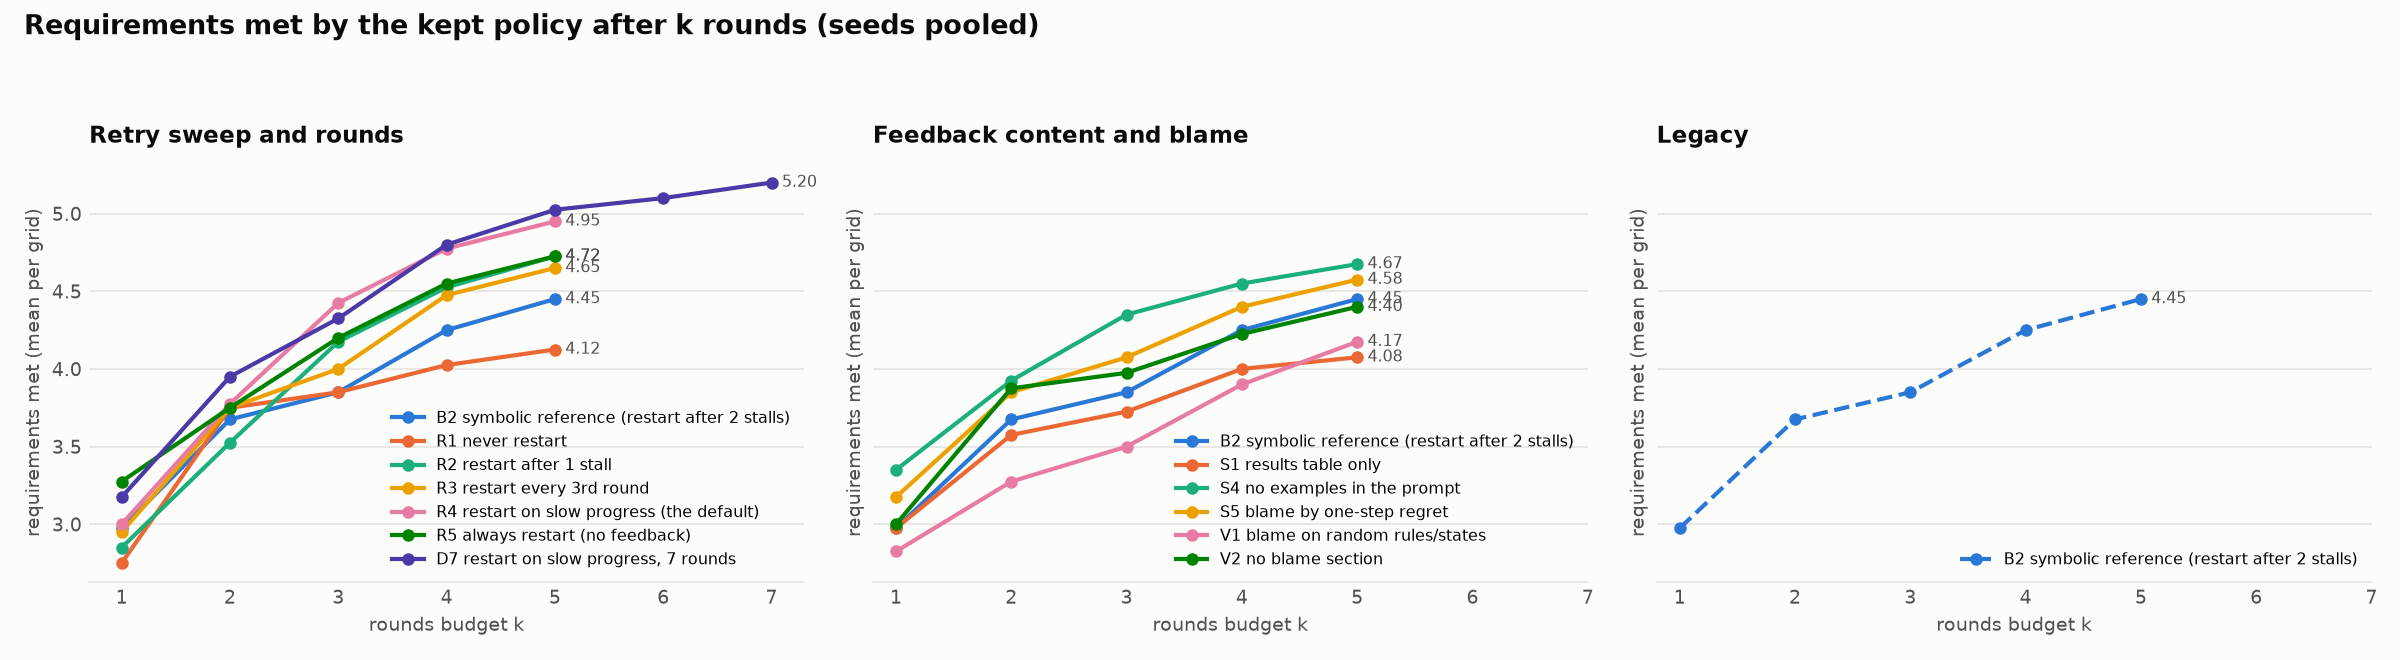
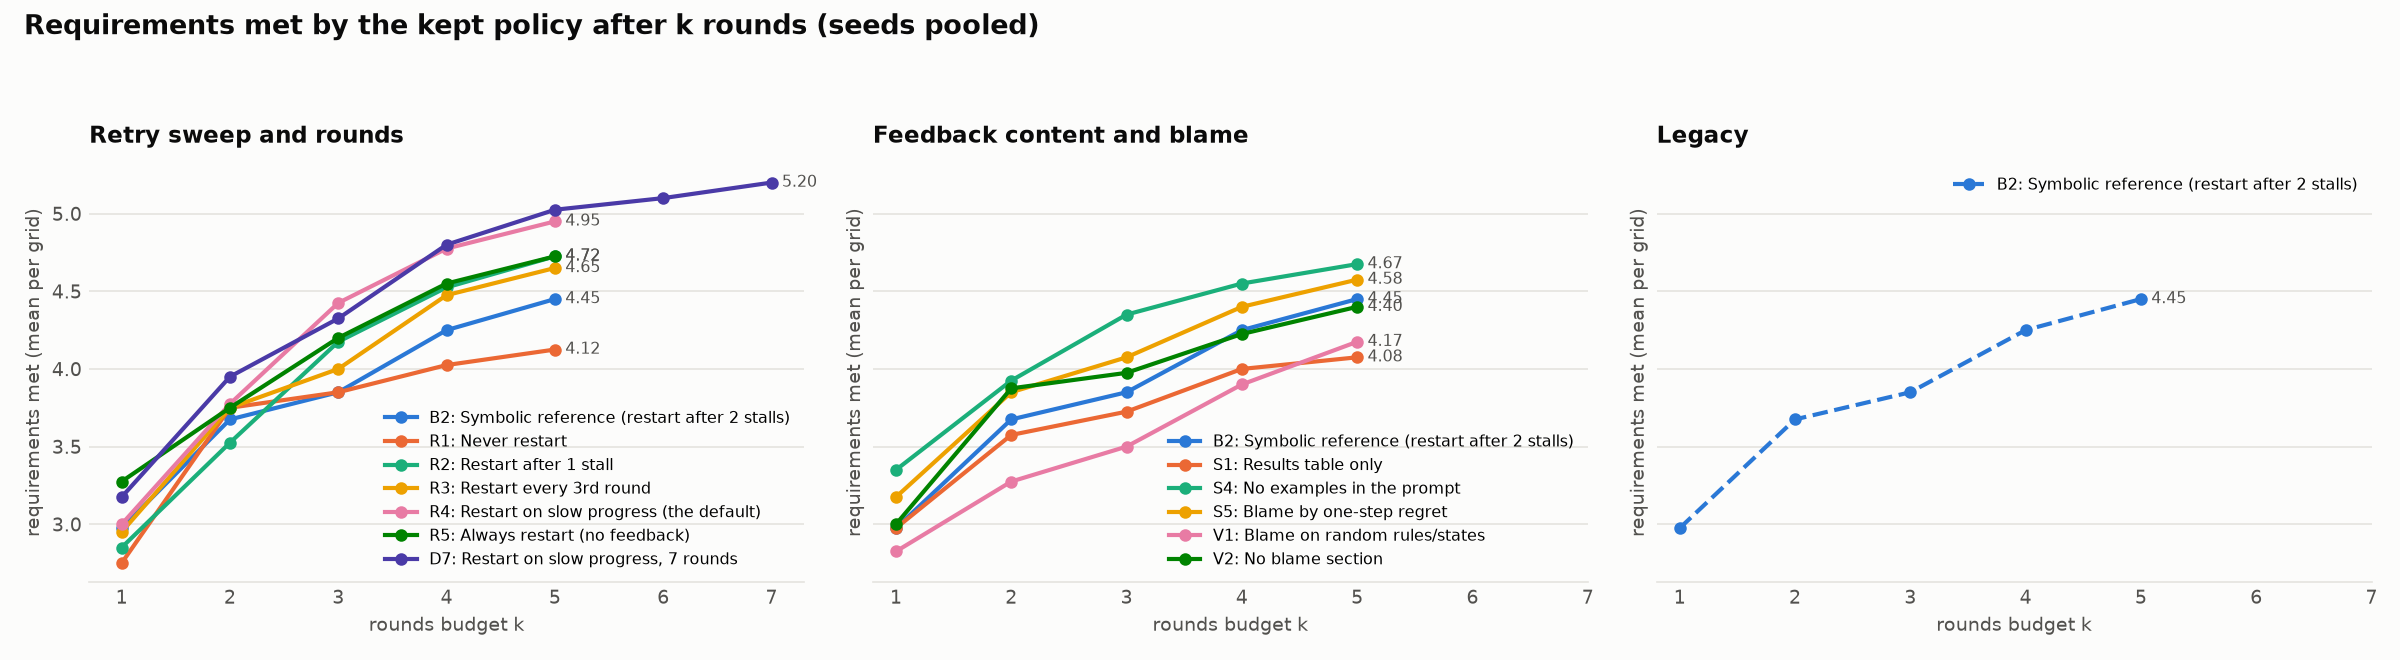
ablation_summary: output dir and heading from the config, so other sets of conditions get their own page
Also: a single budget panel works, legend labels keep their case and sit where they cover least,
the outcomes table shows grids solved (of solvable), and theme.py gets a Model family colour.

diff --git a/PRISM-Guided-Learning/viz/ablation_summary.py b/PRISM-Guided-Learning/viz/ablation_summary.py
@@ -1,13 +1,15 @@
-"""One page with every ablation result so far: tables, paired tests and figures.
+"""One page with the results of a set of conditions: tables, paired tests and figures.
 
-Reads every finished run under <root>/<condition>/seed_<k>/ and rewrites <root>/summary/ (SUMMARY.md +
-PNGs). Safe to rerun at any time; unfinished runs are listed as pending.
+Reads every finished run under <root>/<condition>/seed_<k>/ and rewrites the `out` directory (SUMMARY.md +
+PNGs). Safe to rerun at any time; unfinished runs are listed as pending. configs/plot/ablation_summary.yaml
+covers the ablations; other configs compare other sets of conditions (e.g. models).
 
 Usage (from PRISM-Guided-Learning/): python viz/ablation_summary.py configs/plot/ablation_summary.yaml
 Settings: the plot config (PlotConfig below): which conditions, their families and references, the
 budget groups, the UUV section and the text. Grid counts, model and round budgets come from the runs.
 """
 import datetime
+import sys
 from collections import Counter
 from dataclasses import dataclass
 from pathlib import Path
@@ -35,6 +37,8 @@ class PlotConfig:
     """configs/plot/ablation_summary.yaml documents each key."""
     script: str
     root: str
+    out: str
+    heading: str
     conditions: Dict[str, Dict[str, Optional[str]]]
     reference_lines: Dict[str, str]
     budget_groups: Dict[str, List[str]]
@@ -279,19 +283,20 @@ def plot_budget(runs, out, cfg: PlotConfig):
     data = pd.concat(curves)
     summary = data.groupby(["condition", "k"]).met.mean().reset_index()
     groups = list(cfg.budget_groups.items())
-    fig, axes = plt.subplots(1, len(groups), figsize=(16, 4.4), facecolor=SURFACE, sharey=True)
-    for ax, (title, members) in zip(axes, groups):
+    fig, axes = plt.subplots(1, len(groups), figsize=(max(7.0, 16 * len(groups) / 3), 4.4), facecolor=SURFACE,
+                             sharey=True, squeeze=False)
+    for ax, (title, members) in zip(axes[0], groups):
         for i, condition in enumerate([m for m in members if m in set(summary.condition)]):
             d = summary[summary.condition == condition]
             ls = "--" if condition in cfg.reference_lines and members[0] != condition else "-"
             ax.plot(d.k, d.met, color=LINE_COLORS[i % len(LINE_COLORS)], lw=2, marker="o", ms=5, ls=ls,
-                    label=f"{condition} {cfg.conditions[condition]['change'].lower()}")
+                    label=f"{condition}: {cfg.conditions[condition]['change']}")
             ax.annotate(f"{d.met.iloc[-1]:.2f}", (d.k.iloc[-1], d.met.iloc[-1]), xytext=(5, 0),
                         textcoords="offset points", va="center", fontsize=7.5, color=INK_2)
         style(ax, title, "requirements met (mean per grid)")
         ax.set_xticks(range(1, int(summary.k.max()) + 1))
         ax.set_xlabel("rounds budget k", color=INK_2, fontsize=9)
-        ax.legend(frameon=False, fontsize=7.5, loc="lower right")
+        ax.legend(frameon=False, fontsize=7.5, loc="best")
     fig.suptitle("Requirements met by the kept policy after k rounds (seeds pooled)", x=0.01, ha="left",
                  fontsize=13, fontweight="bold", color=INK)
     fig.tight_layout(rect=(0, 0, 1, 0.92))
@@ -363,10 +368,10 @@ def uuv_table(root: Path, condition: str) -> str:
             "|---|---|---|---|---|---|---|\n" + "\n".join(rows))
 
 
-def write_markdown(out_dir, table, budget, pending, uuv, cfg: PlotConfig, batch: Batch):
+def write_markdown(out_dir, table, budget, pending, uuv, cfg: PlotConfig, batch: Batch, config_path: str):
     now = datetime.datetime.now().strftime("%Y-%m-%d %H:%M")
-    lines = [f"# Ablation results (auto-generated {now})", "", batch.text(cfg.intro), "",
-             "Regenerate: `python viz/ablation_summary.py configs/plot/ablation_summary.yaml`.", ""]
+    lines = [f"# {cfg.heading} (auto-generated {now})", "", batch.text(cfg.intro), "",
+             f"Regenerate: `python viz/ablation_summary.py {config_path}`.", ""]
     if pending:
         lines += ["**Pending runs:** " + ", ".join(pending), ""]
     lines += ["## Overview", "", "![conditions](conditions.png)", "",
@@ -374,13 +379,14 @@ def write_markdown(out_dir, table, budget, pending, uuv, cfg: PlotConfig, batch:
               "## Budget curves", "", "![budget](budget.png)", "",
               "## Loop mechanics (symbolic)", "", "![mechanics](mechanics.png)", "",
               "## Outcomes (per grid, seeds pooled)", "",
-              "| cond | change | seeds | req. met: mean (seed range) | median [IQR] | best case | "
+              "| cond | change | seeds | solved (of solvable) | req. met: mean (seed range) | median [IQR] | best case | "
               "shortfall: median [IQR] | uncovered % | vs | Δ met [95% CI] | p | feedback rounds improved |",
-              "|---|---|---|---|---|---|---|---|---|---|---|---|"]
+              "|---|---|---|---|---|---|---|---|---|---|---|---|---|"]
     for _, r in table.iterrows():
         improved = f"{r.feedback_improved:.0%}" if "feedback_improved" in r and pd.notna(r.feedback_improved) else ""
         diff = f"{r['diff']:+.2f} {r.ci}" if r.vs else ""
-        lines.append(f"| {r.condition} | {r.change} | {r.seeds} | {r.met:.2f} ({r.met_seed_min:.2f} to "
+        lines.append(f"| {r.condition} | {r.change} | {r.seeds} | {r.solved:g}/{len(batch.solvable)} | "
+                     f"{r.met:.2f} ({r.met_seed_min:.2f} to "
                      f"{r.met_seed_max:.2f}) | {r.met_median:.0f} [{r.met_q1:.0f} to {r.met_q3:.0f}] | {r.met_best:.2f} | "
                      f"{r.short_median:.2f} [{r.short_q1:.2f} to {r.short_q3:.2f}] | {r.uncovered:.0f} | {r.vs} | "
                      f"{diff} | {'' if pd.isna(r.p) else f'{r.p:.3f}'} | {improved} |")
@@ -399,10 +405,11 @@ def write_markdown(out_dir, table, budget, pending, uuv, cfg: PlotConfig, batch:
     (out_dir / "SUMMARY.md").write_text("\n".join(lines) + "\n", encoding="utf-8")
 
 
-def main():
-    cfg = plot_config(PlotConfig, "ablation_summary")
+def main(argv=None):
+    argv = sys.argv[1:] if argv is None else argv
+    cfg = plot_config(PlotConfig, "ablation_summary", argv)
     root = Path(cfg.root)
-    out_dir = root / "summary"
+    out_dir = Path(cfg.out)
     out_dir.mkdir(parents=True, exist_ok=True)
 
     runs, pending = finished_runs(root, cfg.conditions)
@@ -426,7 +433,7 @@ def main():
     if cfg.uuv:
         plot_uuv(root, cfg.uuv["condition"], out_dir / "uuv.png")
         uuv = uuv_table(root, cfg.uuv["condition"])
-    write_markdown(out_dir, table, budget, pending, uuv, cfg, batch)
+    write_markdown(out_dir, table, budget, pending, uuv, cfg, batch, Path(argv[0]).as_posix())
     print(out_dir / "SUMMARY.md")
 
 

diff --git a/PRISM-Guided-Learning/viz/theme.py b/PRISM-Guided-Learning/viz/theme.py
@@ -3,7 +3,8 @@ SURFACE, INK, INK_2, GRID = "#fcfcfb", "#0b0b0b", "#52514e", "#e4e3df"
 
 # Ablation families (configs/plot/ablation_summary.yaml), the same colour in every ablation figure
 FAMILY_COLORS = {"Baselines": "#2a78d6", "Retry sweep": "#eb6834", "Feedback content": "#1baf7a",
-                 "Blame signal": "#eda100", "Rounds budget": "#e87ba4", "Legacy variants": "#4a3aa7"}
+                 "Blame signal": "#eda100", "Rounds budget": "#e87ba4", "Legacy variants": "#4a3aa7",
+                 "Model": "#008300"}
 
 
 def style(ax, title, ylabel=None, pad=10):

diff --git a/PRISM-Guided-Learning/out/results/ablations/summary/SUMMARY.md b/PRISM-Guided-Learning/out/results/ablations/summary/SUMMARY.md
@@ -1,4 +1,4 @@
-# Ablation results (auto-generated 2026-10-05 18:31)
+# Ablation results (auto-generated 2026-10-06 05:21)
 
 Gridworld, 20 grids (19 solvable), qwen3:14b, 5 rounds, obstacle phase visible to rules and legacy. Symbolic numbers are worst case. Paired tests compare per-grid means (seeds averaged) against the reference with a sign-flip permutation test; with 20 grids and 2 seeds, treat p > 0.05 as noise.
 
@@ -22,20 +22,20 @@ Regenerate: `python viz/ablation_summary.py configs/plot/ablation_summary.yaml`.
 
 ## Outcomes (per grid, seeds pooled)
 
-| cond | change | seeds | req. met: mean (seed range) | median [IQR] | best case | shortfall: median [IQR] | uncovered % | vs | Δ met [95% CI] | p | feedback rounds improved |
-|---|---|---|---|---|---|---|---|---|---|---|---|
-| B2 | Symbolic reference (restart after 2 stalls) | 2 | 4.45 (4.20 to 4.70) | 4 [4 to 5] | 4.75 | 2.25 [1.40 to 3.46] | 3 |  |  |  | 33% |
-| R1 | Never restart | 2 | 4.12 (3.95 to 4.30) | 4 [3 to 5] | 4.62 | 2.90 [1.72 to 3.88] | 6 | B2 | -0.33 [-0.65, +0.03] | 0.102 | 26% |
-| R2 | Restart after 1 stall | 2 | 4.72 (4.40 to 5.05) | 4 [4 to 6] | 4.80 | 2.33 [1.66 to 3.09] | 1 | B2 | +0.28 [-0.20, +0.75] | 0.319 | 33% |
-| R3 | Restart every 3rd round | 2 | 4.65 (4.60 to 4.70) | 4 [4 to 5] | 4.67 | 2.22 [1.47 to 3.35] | 2 | B2 | +0.20 [-0.03, +0.45] | 0.172 | 33% |
-| R4 | Restart on slow progress (the default) | 2 | 4.95 (4.80 to 5.10) | 5 [4 to 6] | 5.03 | 2.27 [1.66 to 3.09] | 1 | B2 | +0.50 [+0.05, +0.93] | 0.055 | 35% |
-| R5 | Always restart (no feedback) | 2 | 4.72 (4.65 to 4.80) | 5 [4 to 6] | 4.78 | 2.29 [1.90 to 3.18] | 2 | B2 | +0.28 [-0.20, +0.78] | 0.342 |  |
-| D7 | Restart on slow progress, 7 rounds | 2 | 5.20 (4.95 to 5.45) | 5 [4 to 6] | 5.30 | 1.96 [1.13 to 2.48] | 1 | R4 | +0.25 [-0.03, +0.53] | 0.123 | 35% |
-| S1 | Results table only | 2 | 4.08 (3.75 to 4.40) | 4 [3 to 5] | 4.53 | 2.58 [2.03 to 3.57] | 4 | B2 | -0.38 [-0.82, +0.07] | 0.171 | 20% |
-| S4 | No examples in the prompt | 2 | 4.67 (4.65 to 4.70) | 5 [4 to 6] | 4.80 | 2.54 [2.02 to 3.54] | 5 | B2 | +0.23 [-0.28, +0.78] | 0.479 | 39% |
-| S5 | Blame by one-step regret | 2 | 4.58 (4.40 to 4.75) | 4 [4 to 5] | 4.58 | 2.75 [1.69 to 3.71] | 1 | B2 | +0.12 [-0.33, +0.57] | 0.683 | 23% |
-| V1 | Blame on random rules/states | 2 | 4.17 (4.15 to 4.20) | 4 [3 to 5] | 4.50 | 2.88 [1.70 to 3.86] | 4 | B2 | -0.28 [-0.75, +0.17] | 0.319 | 32% |
-| V2 | No blame section | 2 | 4.40 (4.15 to 4.65) | 4 [4 to 5] | 4.88 | 2.32 [1.59 to 3.85] | 8 | B2 | -0.05 [-0.65, +0.50] | 0.931 | 26% |
+| cond | change | seeds | solved (of solvable) | req. met: mean (seed range) | median [IQR] | best case | shortfall: median [IQR] | uncovered % | vs | Δ met [95% CI] | p | feedback rounds improved |
+|---|---|---|---|---|---|---|---|---|---|---|---|---|
+| B2 | Symbolic reference (restart after 2 stalls) | 2 | 0/19 | 4.45 (4.20 to 4.70) | 4 [4 to 5] | 4.75 | 2.25 [1.40 to 3.46] | 3 |  |  |  | 33% |
+| R1 | Never restart | 2 | 0/19 | 4.12 (3.95 to 4.30) | 4 [3 to 5] | 4.62 | 2.90 [1.72 to 3.88] | 6 | B2 | -0.33 [-0.65, +0.03] | 0.102 | 26% |
+| R2 | Restart after 1 stall | 2 | 0/19 | 4.72 (4.40 to 5.05) | 4 [4 to 6] | 4.80 | 2.33 [1.66 to 3.09] | 1 | B2 | +0.28 [-0.20, +0.75] | 0.319 | 33% |
+| R3 | Restart every 3rd round | 2 | 0/19 | 4.65 (4.60 to 4.70) | 4 [4 to 5] | 4.67 | 2.22 [1.47 to 3.35] | 2 | B2 | +0.20 [-0.03, +0.45] | 0.172 | 33% |
+| R4 | Restart on slow progress (the default) | 2 | 0/19 | 4.95 (4.80 to 5.10) | 5 [4 to 6] | 5.03 | 2.27 [1.66 to 3.09] | 1 | B2 | +0.50 [+0.05, +0.93] | 0.055 | 35% |
+| R5 | Always restart (no feedback) | 2 | 0/19 | 4.72 (4.65 to 4.80) | 5 [4 to 6] | 4.78 | 2.29 [1.90 to 3.18] | 2 | B2 | +0.28 [-0.20, +0.78] | 0.342 |  |
+| D7 | Restart on slow progress, 7 rounds | 2 | 0/19 | 5.20 (4.95 to 5.45) | 5 [4 to 6] | 5.30 | 1.96 [1.13 to 2.48] | 1 | R4 | +0.25 [-0.03, +0.53] | 0.123 | 35% |
+| S1 | Results table only | 2 | 0/19 | 4.08 (3.75 to 4.40) | 4 [3 to 5] | 4.53 | 2.58 [2.03 to 3.57] | 4 | B2 | -0.38 [-0.82, +0.07] | 0.171 | 20% |
+| S4 | No examples in the prompt | 2 | 0/19 | 4.67 (4.65 to 4.70) | 5 [4 to 6] | 4.80 | 2.54 [2.02 to 3.54] | 5 | B2 | +0.23 [-0.28, +0.78] | 0.479 | 39% |
+| S5 | Blame by one-step regret | 2 | 0/19 | 4.58 (4.40 to 4.75) | 4 [4 to 5] | 4.58 | 2.75 [1.69 to 3.71] | 1 | B2 | +0.12 [-0.33, +0.57] | 0.683 | 23% |
+| V1 | Blame on random rules/states | 2 | 0/19 | 4.17 (4.15 to 4.20) | 4 [3 to 5] | 4.50 | 2.88 [1.70 to 3.86] | 4 | B2 | -0.28 [-0.75, +0.17] | 0.319 | 32% |
+| V2 | No blame section | 2 | 0/19 | 4.40 (4.15 to 4.65) | 4 [4 to 5] | 4.88 | 2.32 [1.59 to 3.85] | 8 | B2 | -0.05 [-0.65, +0.50] | 0.931 | 26% |
 
 ## Costs (mean per grid)
 
